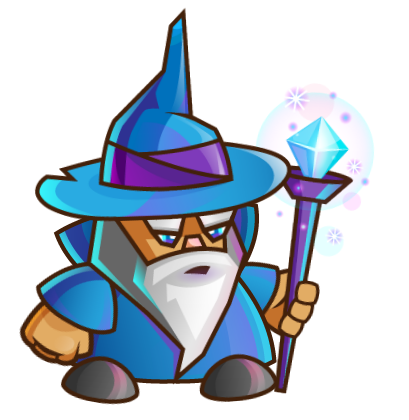
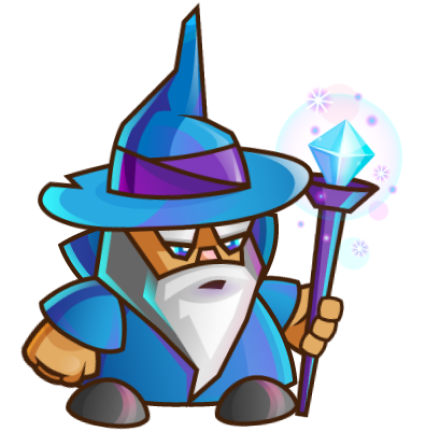
- ice wizard pngs - new obstacles positions - new boundary conditions

diff --git a/src/main/java/com/khryniewicki/projectX/utils/ObstacleStorage.java b/src/main/java/com/khryniewicki/projectX/utils/ObstacleStorage.java
@@ -21,18 +21,17 @@ public class ObstacleStorage {
     static Obstacle palm5A = new Obstacle("palm5A", 0.11f, 0.7f, -6.4f, -0.65f);
 
     static Obstacle cactus1 = new Obstacle("cactus1", 0.11f, 0.4f, -3.85f, -4.4f);
-    static Obstacle cactus2 = new Obstacle("cactus2", 0.11f, 1.0f, -3.05f, -3.0f);
+    static Obstacle cactus2 = new Obstacle("cactus2", 0.11f, 0.7f, -3.05f, -3.0f);
     static Obstacle cactus3 = new Obstacle("cactus3", 0.11f, 1.1f, -4.1f, -1.15f);
     static Obstacle cactus5 = new Obstacle("cactus5", 0.11f, 0.6f, -3.85f, -1.55f);
     static Obstacle cactus6 = new Obstacle("cactus6", 0.11f, 0.4f, -4.30f, -1.25f);
     static Obstacle cactus7 = new Obstacle("cactus7", 0.11f, 0.7f, -3.85f, -3.3f);
 
-    static Obstacle stone1 = new Obstacle("stone1", 0.25f, 0.85f, -3.7f, -3.25f);
+    static Obstacle stone1 = new Obstacle("stone1", 0.25f, 0.95f, -3.7f, -3.25f);
 
     // bottom-right quarter
-
-    static Obstacle cactus8 = new Obstacle("cactus8", 0.11f, 0.9f, 2.95f, -2.9f);
-    static Obstacle cactus9 = new Obstacle("cactus9", 0.11f, 0.4f, 3.75f, -2.3f);
+    static Obstacle cactus8 = new Obstacle("cactus8", 0.10f, 0.9f, 3.0f, -2.9f);
+    static Obstacle cactus9 = new Obstacle("cactus9", 0.11f, 0.2f, 3.8f, -2.1f);
     static Obstacle cactus10 = new Obstacle("cactus10", 0.11f, 0.7f, 3.35f, -4.05f);
     static Obstacle cactus11 = new Obstacle("cactus11", 0.11f, 0.4f, 4.1f, -4.05f);
     static Obstacle cactus12 = new Obstacle("cactus12", 0.11f, 0.4f, 4.35f, -4.0f);
@@ -43,16 +42,16 @@ public class ObstacleStorage {
     static Obstacle cactus17 = new Obstacle("cactus17", 0.11f, 1.0f, 3.75f, -5.6f);
     static Obstacle cactus18 = new Obstacle("cactus18", 0.11f, 1.0f, 6.1f, -3.25f);
 
-    static Obstacle stone2 = new Obstacle("stone2", 0.25f, 1.05f, 3.1f, -2.8f);
-    static Obstacle stone3 = new Obstacle("stone3", 0.25f, 0.7f, 3.5f, -3.95f);
+    static Obstacle stone2 = new Obstacle("stone2", 0.2f, 1.05f, 3.2f, -2.8f);
+    static Obstacle stone3 = new Obstacle("stone3", 0.25f, 0.6f, 3.5f, -3.95f);
     static Obstacle stone4 = new Obstacle("stone4", 0.3f, 0.5f, 4.2f, -4.5f);
     static Obstacle stone5 = new Obstacle("stone5", 0.30f, 1.0f, 3.85f, -5.45f);
 
 
     // top-left quarter
     static Obstacle palm5 = new Obstacle("palm5", 0.11f, 0.7f, -6.4f, 0f);
-    static Obstacle palm6 = new Obstacle("palm6", 0.11f, 1.2f, -6.2f, 1.55f);
-    static Obstacle palm7 = new Obstacle("palm7", 0.11f, 0.7f, -6.65f, 2.65f);
+    static Obstacle palm6 = new Obstacle("palm6", 0.11f, 1.2f, -6.2f, 1.4f);
+    static Obstacle palm7 = new Obstacle("palm7", 0.10f, 0.7f, -6.60f, 2.65f);
     static Obstacle palm8 = new Obstacle("palm8", 0.11f, 0.8f, -8.65f, 1.40f);
     static Obstacle palm9 = new Obstacle("palm9", 0.11f, 0.8f, -5.5f, 4.2f);
     static Obstacle palm10 = new Obstacle("palm10", 0.11f, 1.2f, -4.6f, 3.6f);
@@ -117,13 +116,13 @@ public class ObstacleStorage {
     static Terrain mountain_line_2A = new Terrain("mountain_line_2A", -1.05f, -3.14f, -0.75f, -3.65f);
 
     static Terrain mountain_line_3 = new Terrain("mountain_line_3", -0.75f, -3.65f, -0.05f, -3.8f);
-    static Terrain mountain_line_4 = new Terrain("mountain_line_4", -0.05f, -3.8f, 0.55f, -2.8f);
+    static Terrain mountain_line_4 = new Terrain("mountain_line_4", -0.05f, -3.3f, 0.55f, -2.3f);
     static Terrain mountain_line_5 = new Terrain("mountain_line_5", 0.55f, -2.8f, 0.7f);
-    static Terrain mountain_line_6 = new Terrain("mountain_line_6", 0.5f, -1.9f, 0.2f);
-    static Terrain mountain_line_7 = new Terrain("mountain_line_7", 1.3f, -2.9f, 1.0f);
-    static Terrain mountain_line_8 = new Terrain("mountain_line_8", 2.4f, -2.9f, 0.7f);
+    static Terrain mountain_line_6 = new Terrain("mountain_line_6", 0.5f, -2.2f, 0.2f);
+    static Terrain mountain_line_7 = new Terrain("mountain_line_7", 0.95f, -2.6f, 0.6f);
+    static Terrain mountain_line_8 = new Terrain("mountain_line_8", 2.2f, -2.9f, 0.9f);
 
-    static Terrain mountain_line_9 = new Terrain("mountain_line_9", 2.45f, -2.2f, 0.2f );
+    static Terrain mountain_line_9 = new Terrain("mountain_line_9", 2.40f, -2.2f, 0.2f );
     static Terrain mountain_line_10 = new Terrain("mountain_line_10", 3.25f, -1.7f, 0.2f);
     static Terrain mountain_line_10A = new Terrain("mountain_line_10A", 3.35f, -1.5f, 0.2f);
     static Terrain mountain_line_10B = new Terrain("mountain_line_10B", 3.55f, -1.3f, 0.2f);
@@ -135,8 +134,8 @@ public class ObstacleStorage {
     static Terrain mountain_line_13 = new Terrain("mountain_line_13", 3.15f, 0.4f, 0.2f);
     static Terrain mountain_line_13A = new Terrain("mountain_line_13A", 2.95f, 0.4f, 0.2f);
 
-    static Terrain mountain_line_14 = new Terrain("mountain_line_14", 2.65f, 0.45f, 1.15f);
-    static Terrain mountain_line_15 = new Terrain("mountain_line_15", 0.8f, -1.95f, 0.2f );
+    static Terrain mountain_line_14 = new Terrain("mountain_line_14", 2.65f, 0.55f, 1.15f);
+    static Terrain mountain_line_15 = new Terrain("mountain_line_15", 0.8f, -2.2f, 0.2f );
 
     static Terrain mountain_line_16 = new Terrain("mountain_line_16", 1.8f, 1.55f, 0.2f);
     static Terrain mountain_line_17 = new Terrain("mountain_line_17", 1.55f, 1.15f, 0.2f);
@@ -166,32 +165,29 @@ public class ObstacleStorage {
     static Terrain mountain_line2_5G = new Terrain("mountain_line2_5G", 7.25f, -0.35f, 0.2f);
 
     static Terrain mountain_line2_6 = new Terrain("mountain_line2_6", 6.15f, -2.25f, 0.55f);
-    static Terrain mountain_line2_7 = new Terrain("mountain_line2_7", 6.7f, -2.85f, 0.2f);
+    static Terrain mountain_line2_7 = new Terrain("mountain_line2_7", 6.6f, -3.4f, 0.2f);
     static Terrain mountain_line2_7A = new Terrain("mountain_line2_7A", 6.5f, -2.85f, 0.2f);
     static Terrain mountain_line2_7B = new Terrain("mountain_line2_7B", 6.2f, -2.35f, 0.2f);
 
-    static Terrain mountain_line2_8 = new Terrain("mountain_line2_8", 6.6f, -3.3f, 0.6f);
-    static Terrain mountain_line2_8A = new Terrain("mountain_line2_8A", 6.9f, -3.0f, 0.2f);
-    static Terrain mountain_line2_9 = new Terrain("mountain_line2_9", 7.05f, -3.75f, 0.8f);
-    static Terrain mountain_line2_10 = new Terrain("mountain_line2_10", 8.05f, -3.1f, 0.2f);
-    static Terrain mountain_line2_11 = new Terrain("mountain_line2_11", 8.05f, -3.75f, 0.8f);
-    static Terrain mountain_line2_12 = new Terrain("mountain_line2_12", 8.05f, -3.3f, 0.2f);
-    static Terrain mountain_line2_12A = new Terrain("mountain_line2_12A", 8.2f, -3.1f, 0.2f);
-    static Terrain mountain_line2_12B = new Terrain("mountain_line2_12B", 8.6f, -3.1f, 0.2f);
-    static Terrain mountain_line2_13 = new Terrain("mountain_line2_13", 8.9f, -4.35f, 1.45f);
-    static Terrain mountain_line2_14 = new Terrain("mountain_line2_14", 8.9f, -4.35f, 9.4f, -4.95f);
-    static Terrain mountain_line2_15 = new Terrain("mountain_line2_15", 9.4f, -4.95f, 0.5);
+    static Terrain mountain_line2_8 = new Terrain("mountain_line2_8", 6.6f, -3.5f, 0.6f);
+    static Terrain mountain_line2_9 = new Terrain("mountain_line2_9", 6.80f, -3.75f, 0.85f);
+    static Terrain mountain_line2_11 = new Terrain("mountain_line2_11", 8.0f, -3.85f, 0.85f);
+    static Terrain mountain_line2_12A = new Terrain("mountain_line2_12A", 8.2f, -3.2f, 0.2f);
+    static Terrain mountain_line2_12B = new Terrain("mountain_line2_12B", 8.6f, -3.2f, 0.2f);
+    static Terrain mountain_line2_13 = new Terrain("mountain_line2_13", 8.9f, -4.35f, 0.95f);
+    static Terrain mountain_line2_14 = new Terrain("mountain_line2_14", 8.9f, -4.35f, 9.4f, -5.25f);
+    static Terrain mountain_line2_15 = new Terrain("mountain_line2_15", 9.4f, -5.5f, 0.5f);
 
     static Terrain mountain_line3_1 = new Terrain("mountain_line3_1", 9.25f, -2f, 0.2f);
     static Terrain mountain_line3_1A = new Terrain("mountain_line3_1A", 9.45f, -1.7f, 0.2f);
     static Terrain mountain_line3_1B = new Terrain("mountain_line3_1B", 9.65f, -1.45f, 0.2f);
 
-    static Terrain mountain_line3_2 = new Terrain("mountain_line3_2", 8.65f, -2.0f, 0.2f);
+    static Terrain mountain_line3_2 = new Terrain("mountain_line3_2", 8.45f, -2.0f, 0.2f);
     static Terrain mountain_line3_2A = new Terrain("mountain_line3_2A", 8.45f, -1.7f, 0.2f);
 
-    static Terrain mountain_line3_2B = new Terrain("mountain_line3_2B", 8.25f, -1.4f, 0.2f);
+    static Terrain mountain_line3_2B = new Terrain("mountain_line3_2B", 8.0f, -1.4f, 0.2f);
 
-    static Terrain mountain_line3_3 = new Terrain("mountain_line3_3 ", 8.2f, -1.1f, 0.9f);
+    static Terrain mountain_line3_3 = new Terrain("mountain_line3_3 ", 8.0f, -1.1f, 0.9f);
     static Terrain mountain_line3_4 = new Terrain("mountain_line3_4 ", 8.45f, -0.25f, 9.6f, 1.45f);
     static Terrain mountain_line3_5 = new Terrain("mountain_line3_5 ", 9.5f, 1.3f, 0.2f);
     static Terrain mountain_line3_5A = new Terrain("mountain_line3_5A", 9.7f, 1.3f, 0.2f);
@@ -220,7 +216,7 @@ public class ObstacleStorage {
     static Terrain mountain_line5_1 = new Terrain("mountain_line5_1", -10f, 3.45f, -9.05f, 5.1f);
     static Terrain mountain_line5_2 = new Terrain("mountain_line5_2", -9.05f, 5.1f, 0.5f);
 
-    static Terrain mountain_line6_1 = new Terrain("mountain_line6_1", -7.9f, 5.3f, 0.7);
+    static Terrain mountain_line6_1 = new Terrain("mountain_line6_1", -7.9f, 5.3f, 0.7f);
 
     static Terrain lake_line1 = new Terrain("lake_line1", -8.7f, 0.1f, 0.9f);
     static Terrain lake_line2 = new Terrain("lake_line2", -8.6f, 0.9f, -7.15f, 2.2f);
@@ -252,8 +248,7 @@ public class ObstacleStorage {
 
             mountain_line2_1, mountain_line2_2, mountain_line2_3, mountain_line2_4, mountain_line2_4A,
             mountain_line2_5A, mountain_line2_5B, mountain_line2_5C, mountain_line2_5D, mountain_line2_5E, mountain_line2_5F,
-            mountain_line2_5G, mountain_line2_6, mountain_line2_7, mountain_line2_8, mountain_line2_8A,
-            mountain_line2_9, mountain_line2_10, mountain_line2_11, mountain_line2_12,
+            mountain_line2_5G, mountain_line2_6, mountain_line2_7, mountain_line2_8,             mountain_line2_9,  mountain_line2_11,
             mountain_line2_13, mountain_line2_14, mountain_line2_15,mountain_line2_12A,
             mountain_line2_12B,
 

diff --git a/src/main/java/com/khryniewicki/projectX/game/multiplayer/websocket/messages/MessageHandler.java b/src/main/java/com/khryniewicki/projectX/game/multiplayer/websocket/messages/MessageHandler.java
@@ -64,7 +64,7 @@ public class MessageHandler {
         MockStartingPosition mockStartingPosition = MockStartingPosition.getInstance();
         Integer app = channels.getApp();
         Position A = new Position(4f, 4f);
-        Position B = new Position(-10f, -5.5f);
+        Position B = new Position(-10f, -5.0f);
         if (app == 1) {
             heroStartingPosition.setX_Y(A.getX(), A.getY());
             mockStartingPosition.setX_Y(B.getX(), B.getY());

diff --git a/src/main/java/com/khryniewicki/projectX/game/control_settings/collision/Collision.java b/src/main/java/com/khryniewicki/projectX/game/control_settings/collision/Collision.java
@@ -108,7 +108,7 @@ public class Collision {
             BoundaryCollisions[0] = true;
         } else if (bx <= -9.5f) {
             BoundaryCollisions[1] = true;
-        } else if (by >= 5.0f) {
+        } else if (by >= 4.6f) {
             BoundaryCollisions[2] = true;
         } else if (by <= -5.0f) {
             BoundaryCollisions[3] = true;
